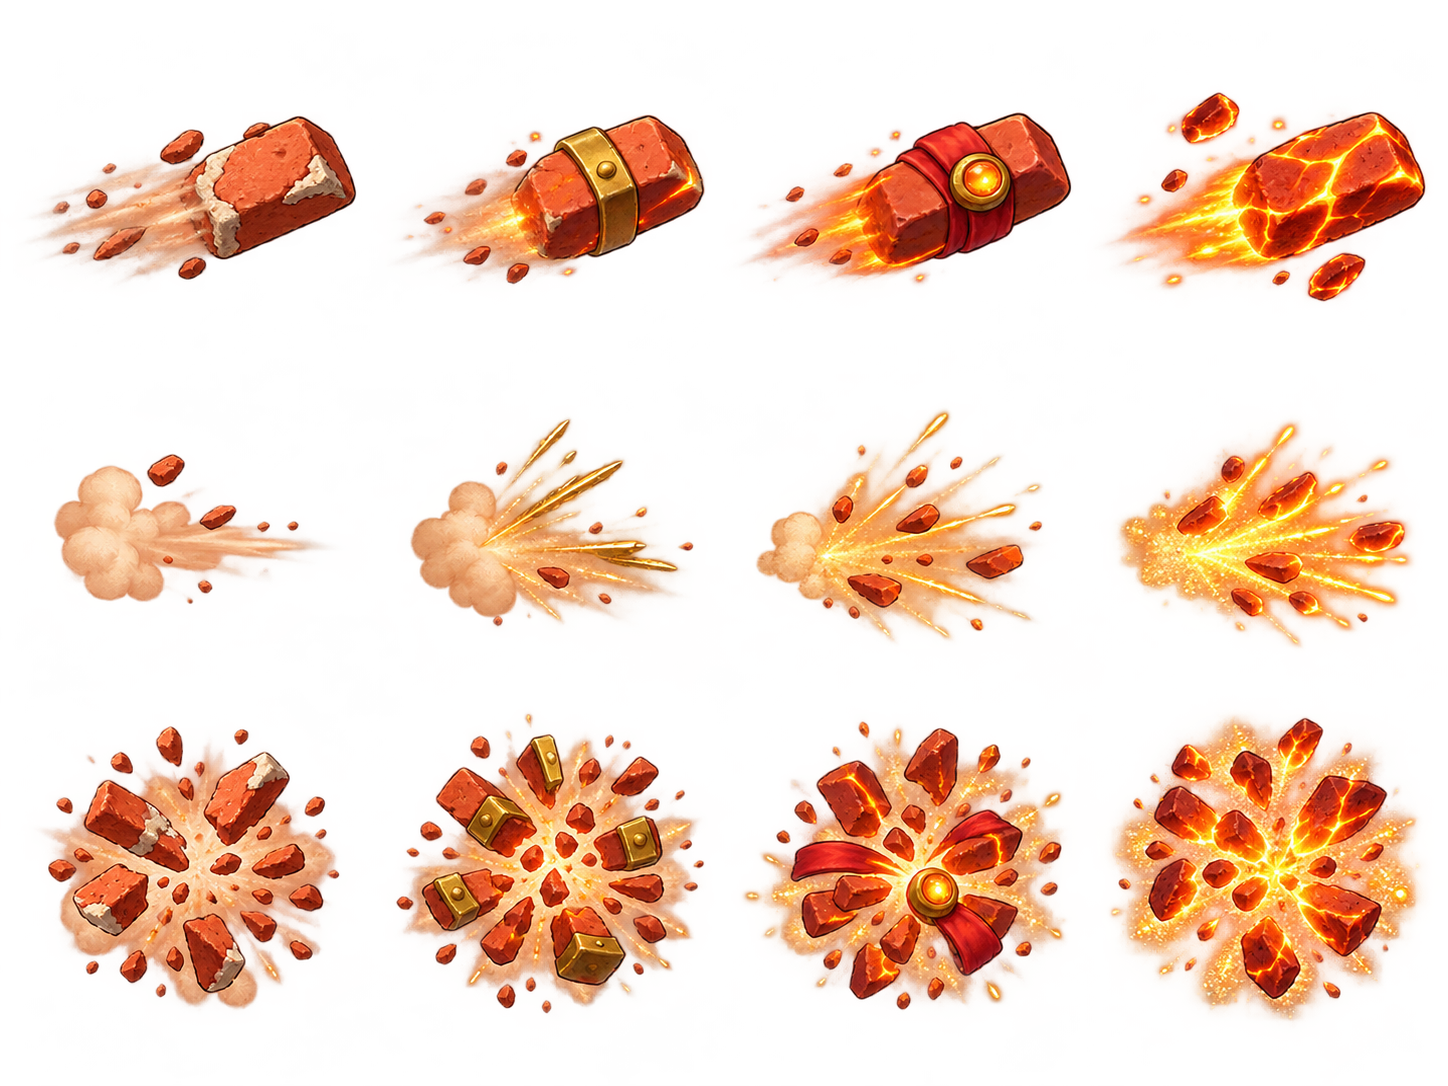
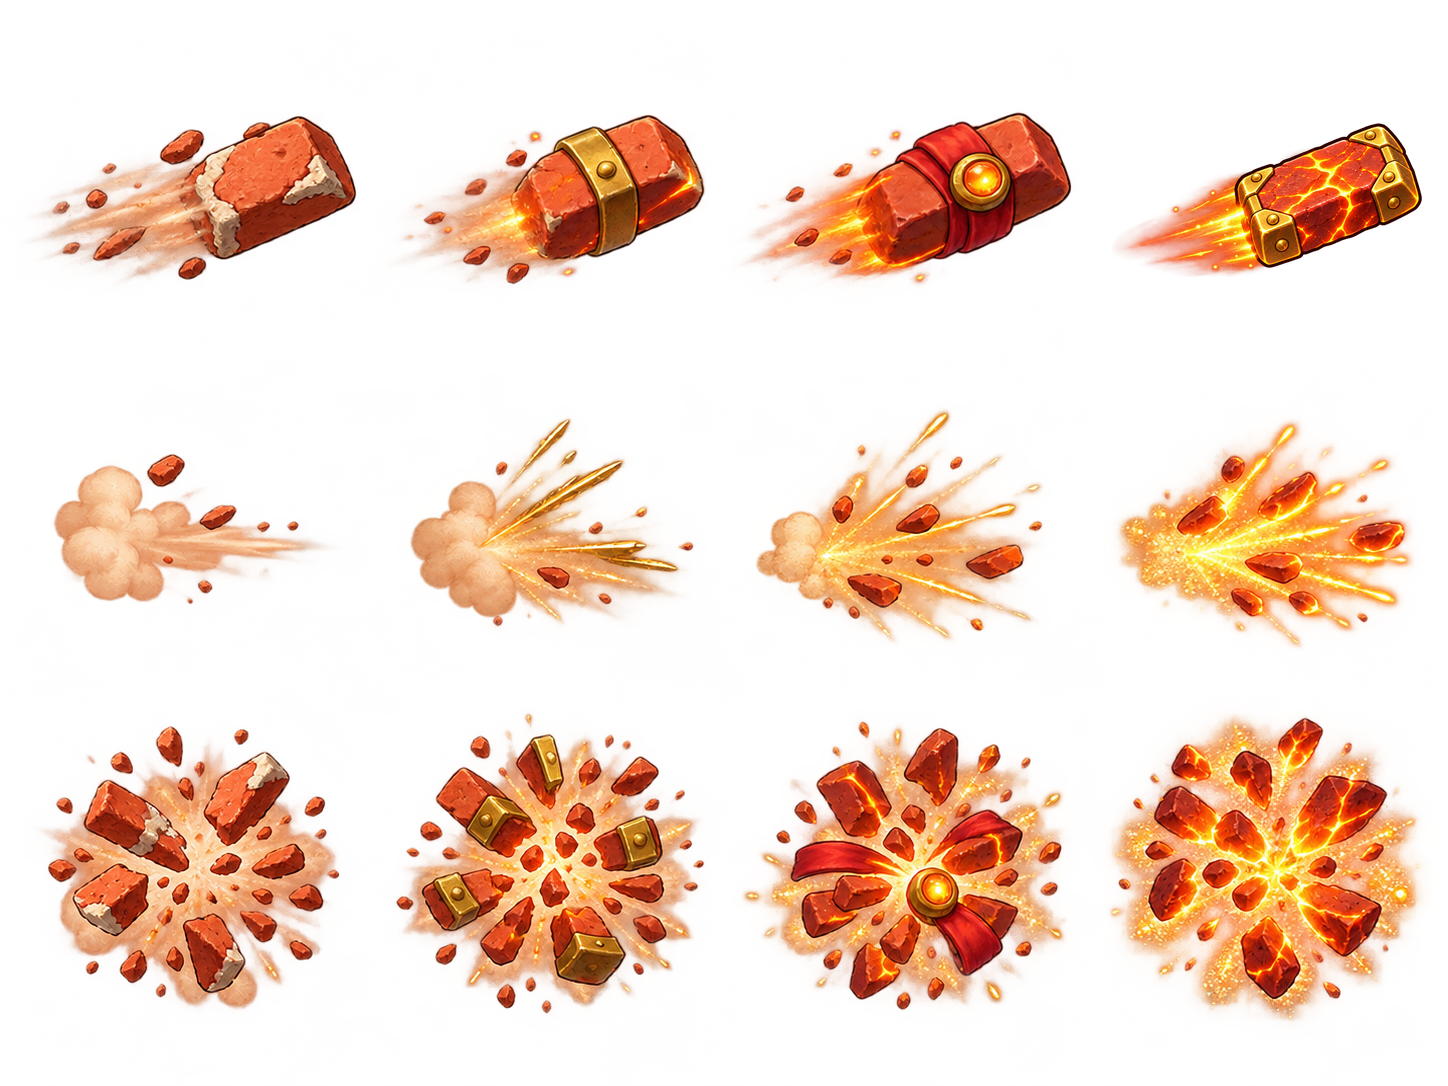
Quebra-Tijolos: POW art for every phase and a cleaner +15 projectile
pow.png (painted by Codex) gives the POW its own double brick and bigger impact
in each phase. The +15 projectile is now one brick with a spark trail, without
the loose shards that floated beside it.

Claude-Session: https://claude.ai/code/session_016Ubhzn47HdXXwYJRpD4MfS

Changed region(s): [[0.7769, 0.0912, 0.9945, 0.2735]]

diff --git a/CLAUDE.md b/CLAUDE.md
@@ -61,7 +61,7 @@ Regra geral: ele quer arte **pintada, nível DDTank**, com volume e cores vivas.
 - **Componentes reaproveitados**: `InventoryTooltip` (exportado da mochila, prop `action`), cards de classe por `data-tier` (regras em `Backpack.css` com `:is(.bag-window, .smith-window, .shop-window)`), `UpgradeTag`, `LevelNumber`, `LevelBadge`, `VipBadge`, `Avatar` (`animated={false}` nas prévias). Se mudar card ou tooltip da mochila, confira ferreiro e loja.
 - Classes raiz: `.bag-window` (mochila), `.smith-window` (ferreiro), `.shop-window` (loja), `.pvp-hall` e `.pvp-room`.
 - Personagem: cabeça 30% maior (`HEAD_SCALE=1.3` em `src/game/rig/anchors.ts`); cabelo, chapéu e óculos seguem a cabeça. Chapéu mostra o mesmo penteado de sem chapéu, cortado pelo chapéu.
-- Armas: cada uma tem kit em `shared/weaponKit.ts` (fases +0 a +9, +10, +12, +15; ícone, arma na mão, atlas de efeitos, marca no cenário, sons, regra POW). Arte em `public/assets/weapons/<id>/`.
+- Armas: cada uma tem kit em `shared/weaponKit.ts` (fases +0 a +9, +10, +12, +15; ícone, arma na mão, atlas de efeitos, atlas do POW, marca no cenário, sons, regra POW). Arte em `public/assets/weapons/<id>/`. O POW é **sempre** um objeto diferente e maior que o tiro normal da fase (`pow.png`, regra do matheus em 18/10); projétil sem cacos soltos em volta.
 - Combate deitado: arrasta ao andar, arma nas costas apontando a mira, só aparece na mão ao carregar/atirar; armas de arremesso (dinamite, tijolo) saem da mão.
 - Lobby "Praça Celeste": praça com 3 telas de largura (4608 px, `shared/lobby.ts`), câmera segue o jogador; os três "portais" são o pódio do ranking PvP diário: os 3 jogadores com mais vitórias no dia (horário de Brasília, partidas contra bot contam) aparecem em pé no pódio com a roupa equipada, nome e vitórias, sem o anel/halo de brilho atrás (`Store.dailyRanking`, evento `ranking`). Prompts em `docs/lobby-art-prompts.md`; o Codex entrega imagens em `public/assets/lobby` e não edita o código do lobby.
 
